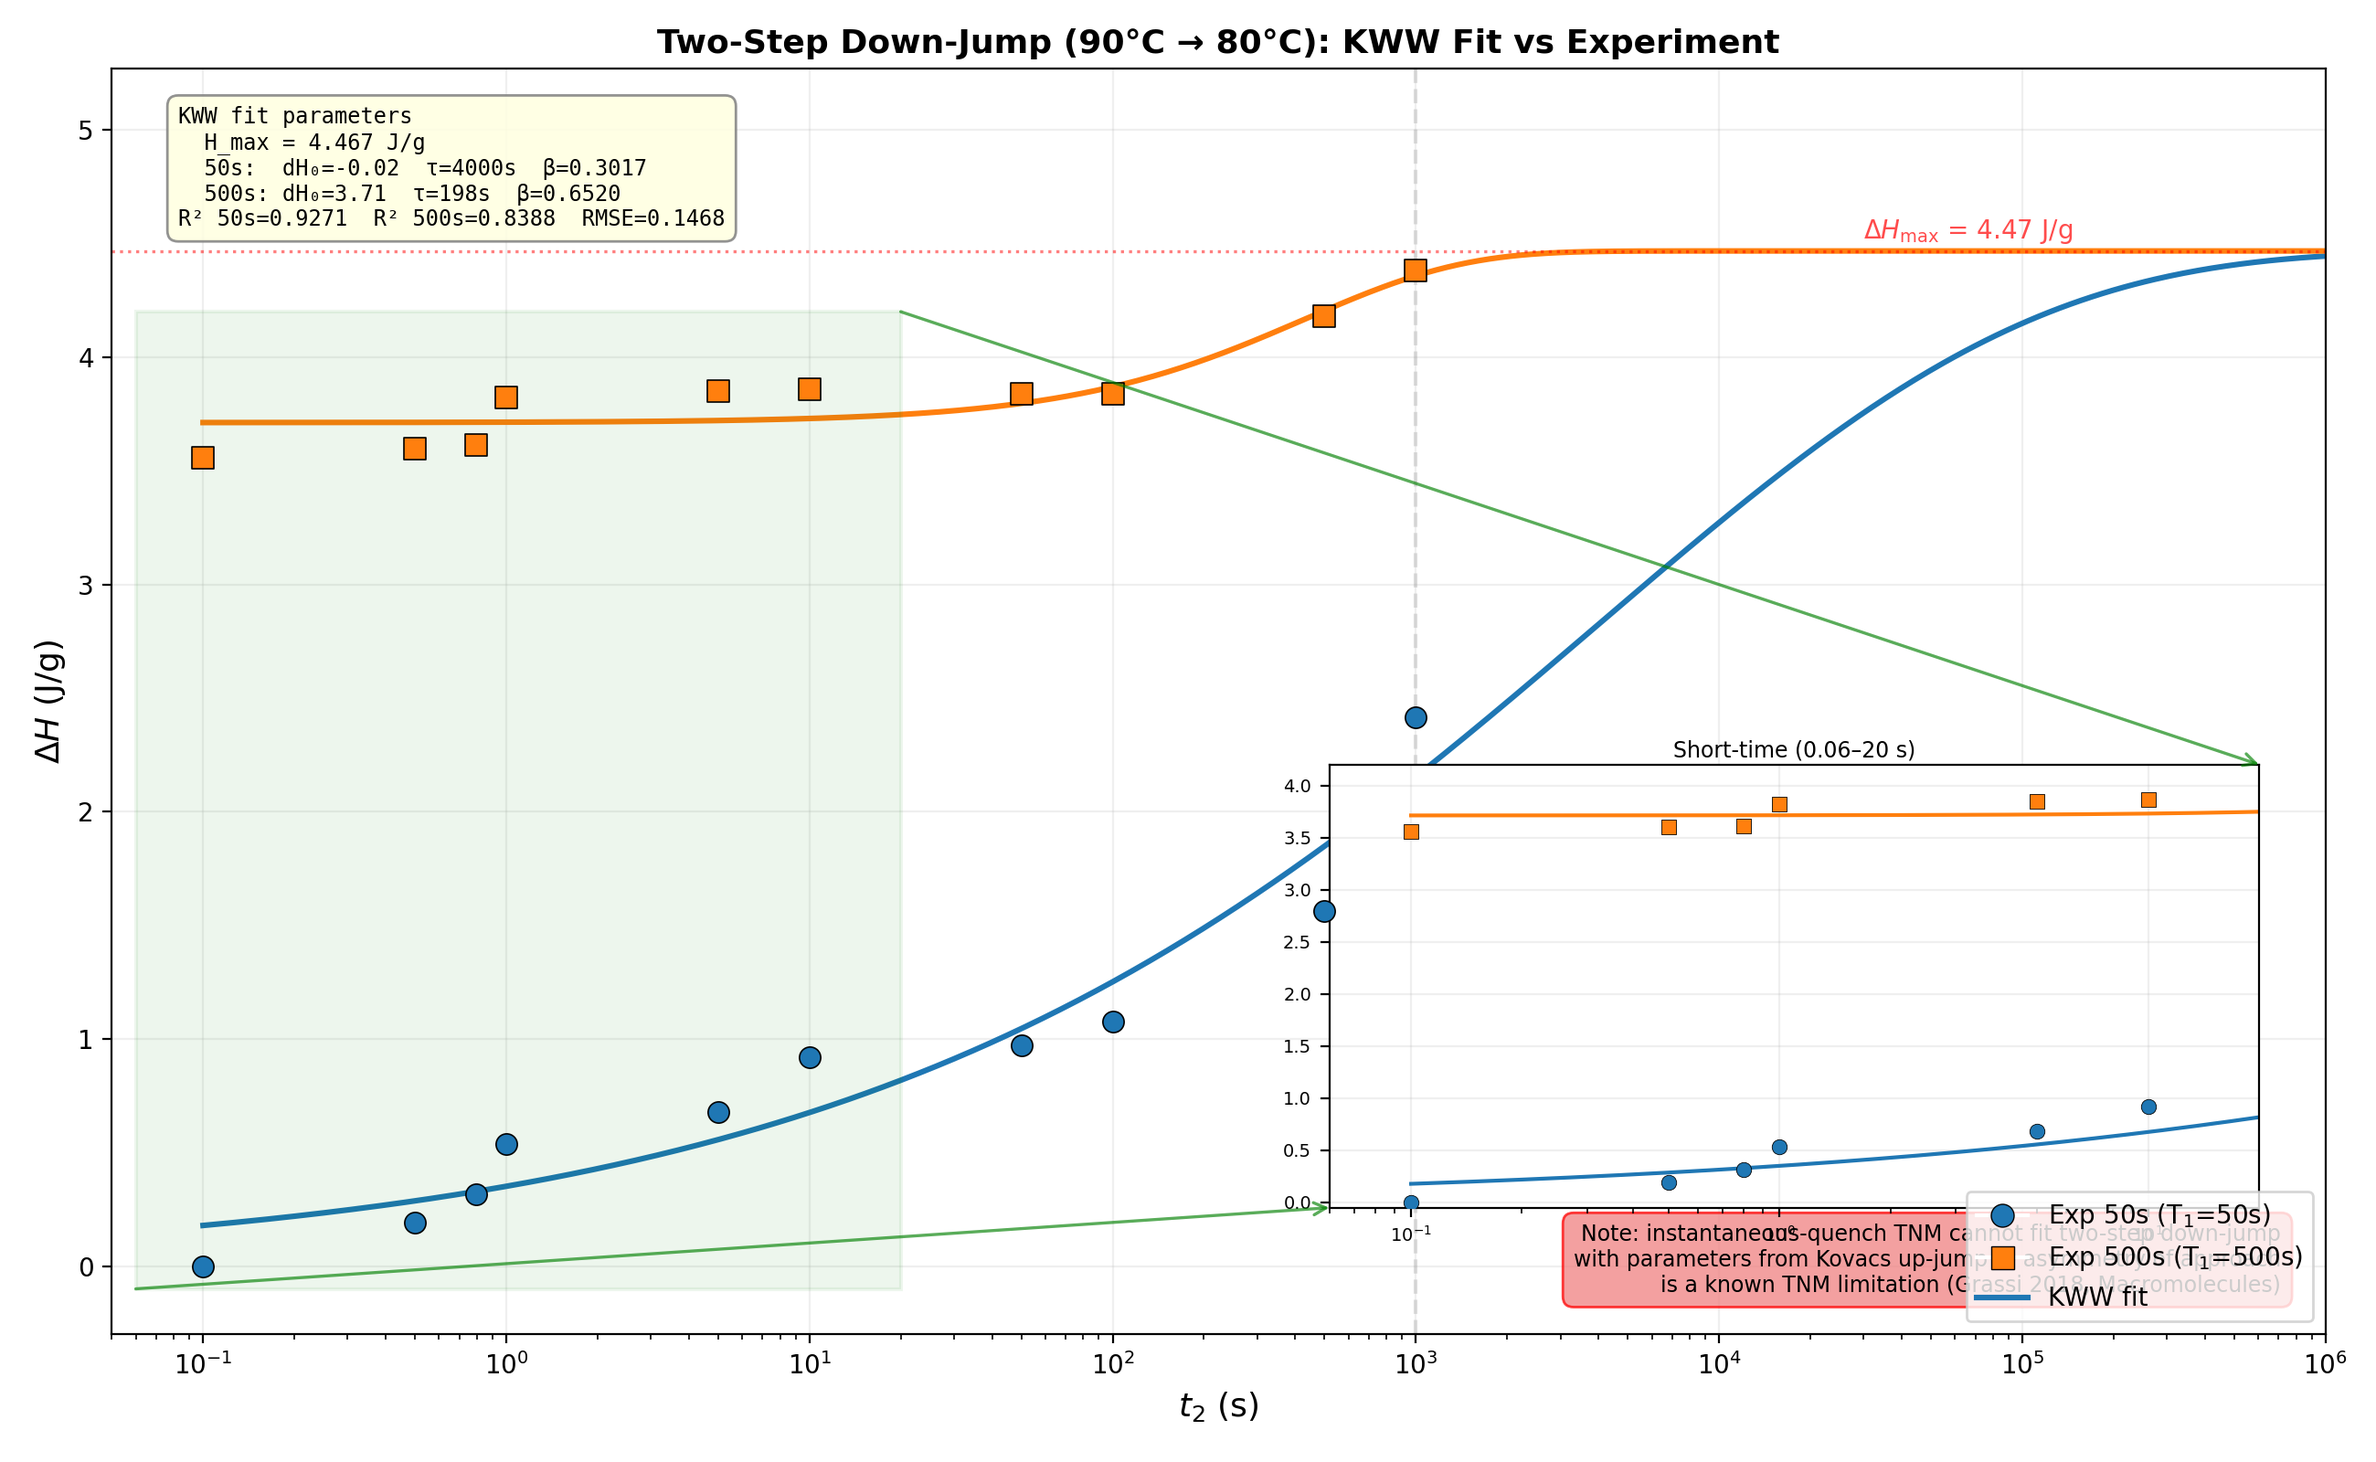
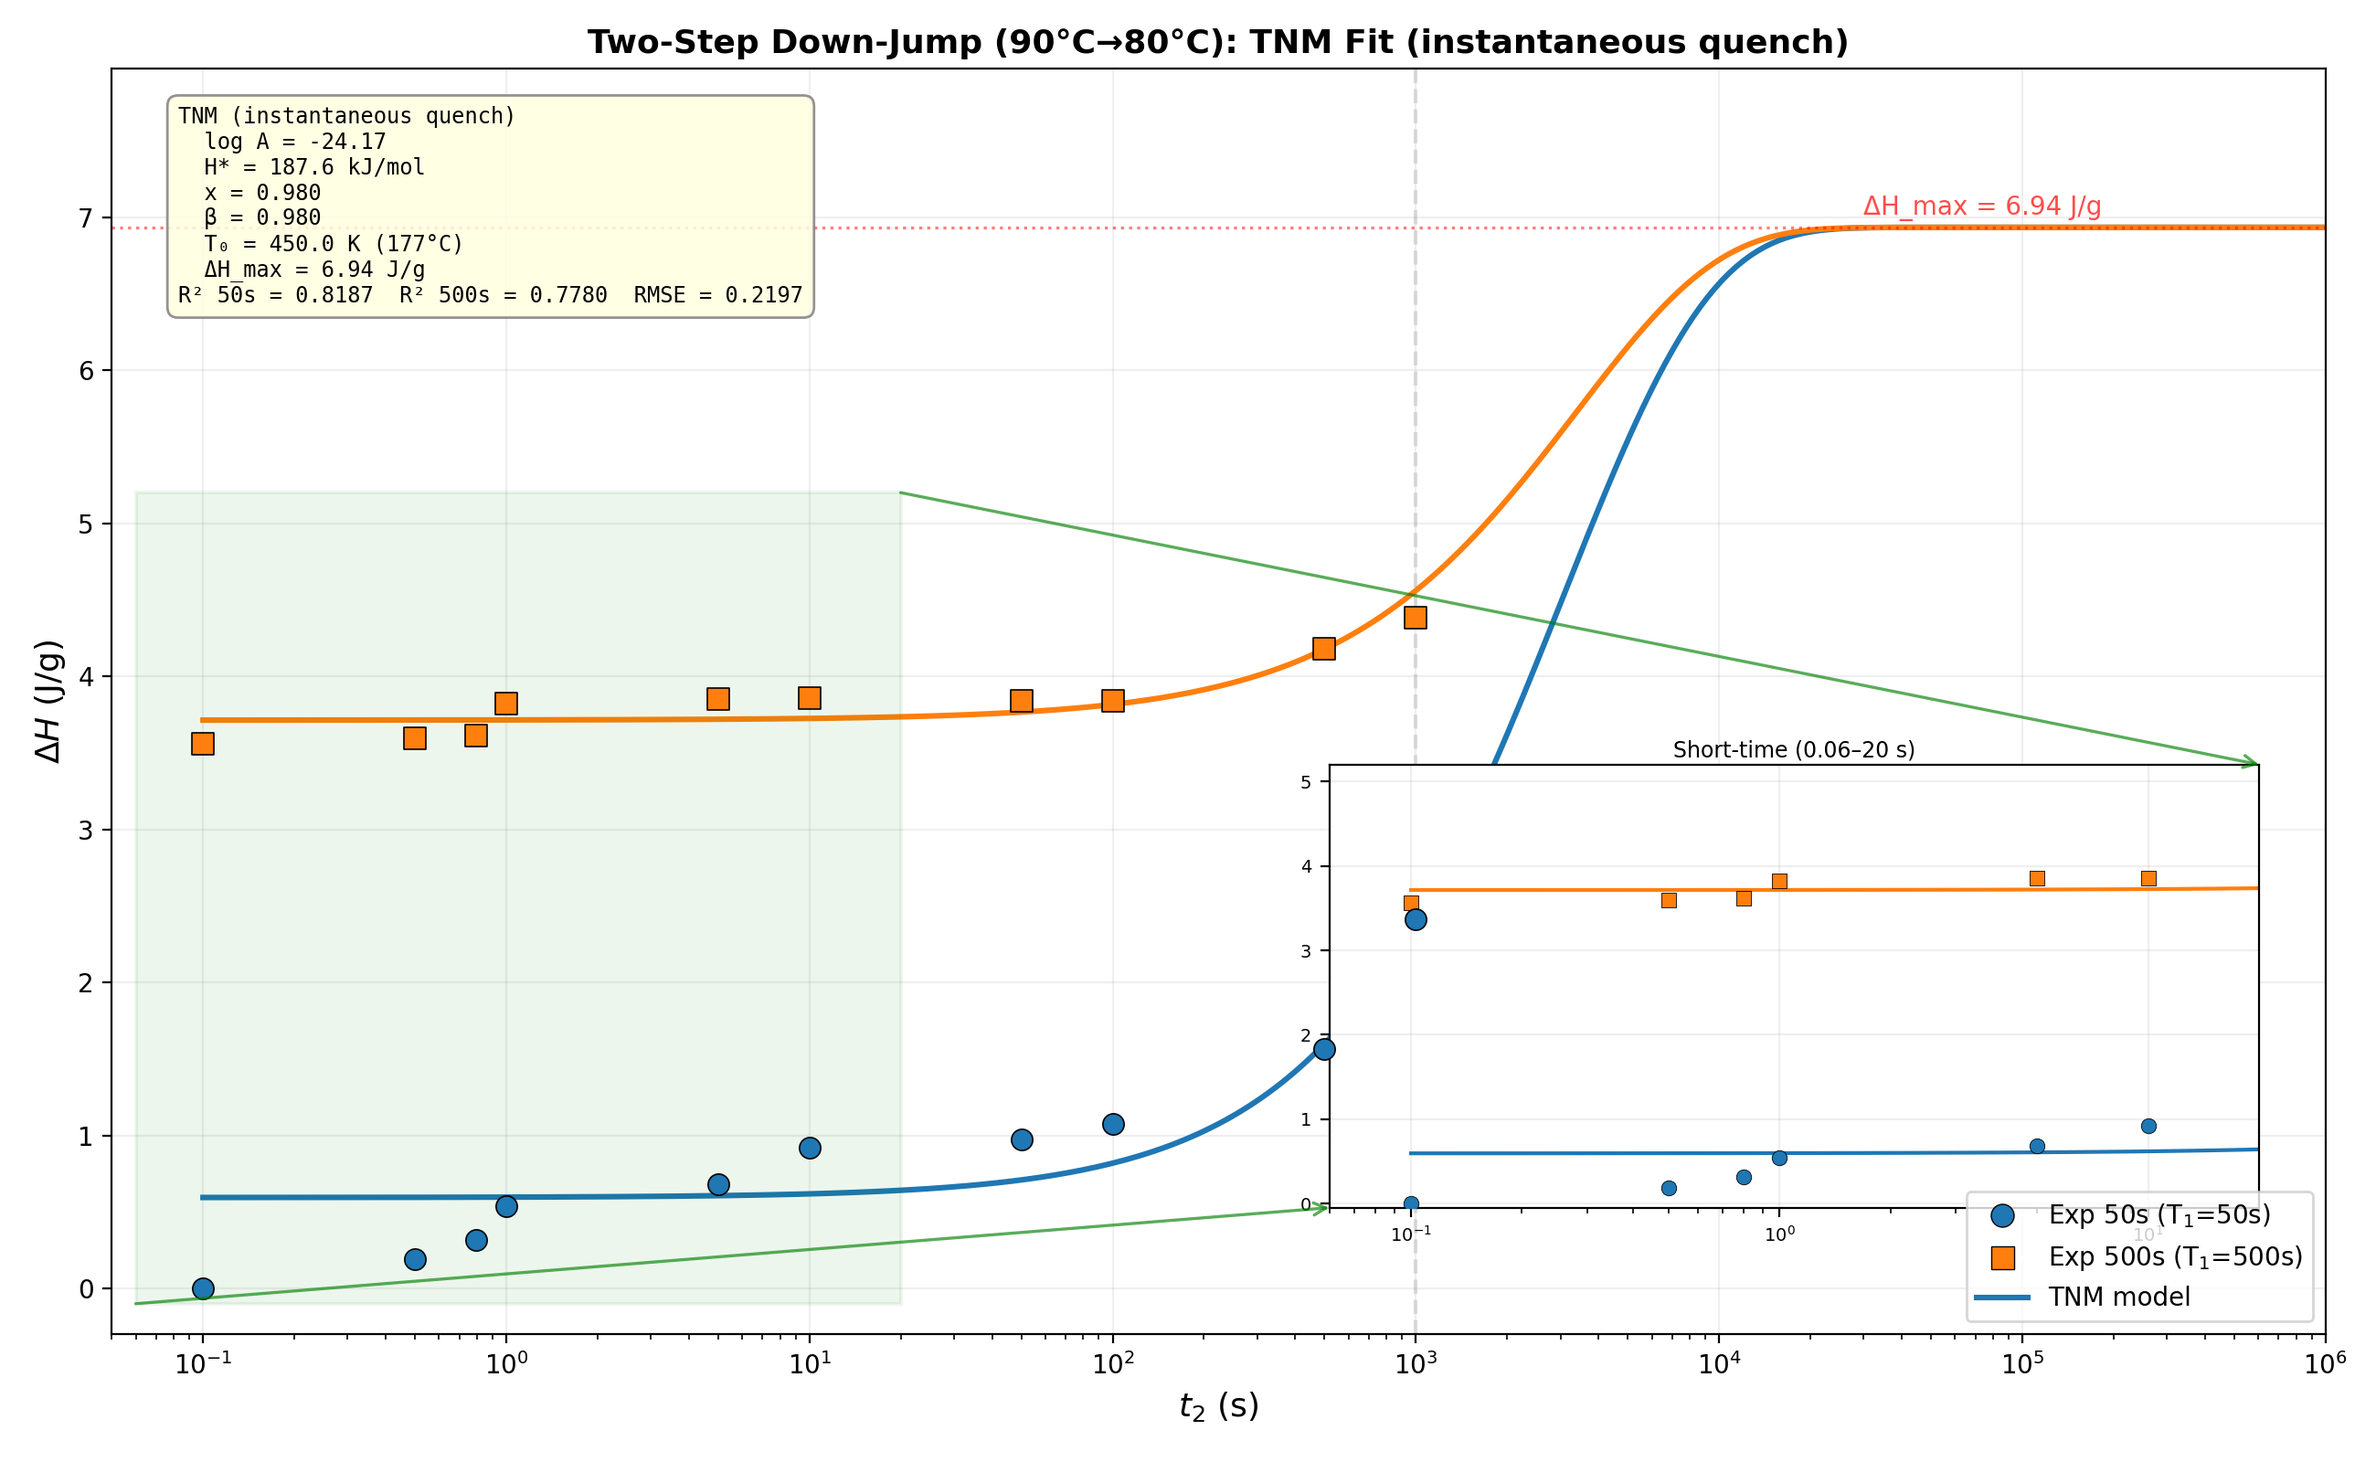
2026-05-17 10:20 - auto commit

diff --git a/src/twosteps_fit_tnm.py b/src/twosteps_fit_tnm.py
@@ -1,0 +1,315 @@
+#!/usr/bin/env python3
+"""
+Two-Step Down-Jump (90°C→80°C) — TNM with Cooling Ramps
+
+Key insight: the cooling ramp from T0→T1 (~37s at 60 K/min) is comparable
+to the short T1 hold (50s). Without simulating the ramp, Tf at T1 is
+unphysically high for the 50s group, causing instant relaxation at T2.
+
+Protocol:
+  equil at T0+50 → cool to T1 at 60K/min → hold t1 → cool to T2 → hold t2
+"""
+
+import os, warnings, numpy as np, pandas as pd
+from scipy.optimize import minimize
+import matplotlib; matplotlib.use('Agg')
+import matplotlib.pyplot as plt
+from matplotlib.lines import Line2D
+from matplotlib.patches import Rectangle, ConnectionPatch
+
+warnings.filterwarnings('ignore')
+
+ROOT = os.path.dirname(os.path.dirname(os.path.abspath(__file__)))
+RESULTS = os.path.join(ROOT, 'results')
+R = 8.314
+
+T1 = 363.15; T2 = 353.15
+T1_50S = 49.98; T1_500S = 499.98
+Q_COOL = 1.0  # 60 K/min
+
+
+class TNM_Ramp:
+    def __init__(self, A, H_star, x, beta, T0, q=1.0):
+        self.A, self.H, self.x, self.b, self.T0, self.q = A, H_star, x, beta, T0, q
+
+    def tau(self, T, Tf):
+        e = self.x * self.H / (R * T) + (1 - self.x) * self.H / (R * Tf)
+        return self.A * np.exp(np.clip(e, -50, 80))
+
+    def _hold(self, T, t, Tf0):
+        if t <= 0:
+            return Tf0
+        ts = np.unique(np.round(np.logspace(np.log10(t / 100), np.log10(t), 10), 10))
+        S, Tf, tp = 0.0, Tf0, 0.0
+        for ti in ts:
+            S += (ti - tp) / self.tau(T, Tf)
+            tp = ti
+            Tf = T + (Tf0 - T) * np.exp(-(S ** self.b))
+        return Tf
+
+    def _ramp(self, Ta, Tb, rate, Tf0):
+        N = max(int(abs(Tb - Ta) / 2.0), 6)
+        Tv = np.linspace(Ta, Tb, N + 1)
+        Tf = Tf0
+        for i in range(N):
+            dT = Tv[i + 1] - Tv[i]
+
+            def rhs(T, f):
+                tv = self.tau(T, f)
+                if tv <= 0 or not np.isfinite(tv): return np.nan
+                return (T - f) / (rate * tv)
+
+            k1 = rhs(Tv[i], Tf)
+            if np.isnan(k1): return np.nan
+            k2 = rhs(Tv[i] + dT / 2, Tf + dT * k1 / 2)
+            if np.isnan(k2): return np.nan
+            k3 = rhs(Tv[i] + dT / 2, Tf + dT * k2 / 2)
+            if np.isnan(k3): return np.nan
+            k4 = rhs(Tv[i + 1], Tf + dT * k3)
+            if np.isnan(k4): return np.nan
+            Tf += dT * (k1 + 2 * k2 + 2 * k3 + k4) / 6
+            if np.isnan(Tf): return np.nan
+        return Tf
+
+    def simulate(self, t1, t2):
+        T_start = self.T0 + 50.0
+        # Cool from above Tg → T1
+        Tfc = self._ramp(T_start, T1, -self.q, T_start)
+        if np.isnan(Tfc): return np.nan
+        # Hold at T1
+        Tf1 = self._hold(T1, t1, Tfc)
+        if np.isnan(Tf1): return np.nan
+        # Cool T1 → T2
+        Tfu = self._ramp(T1, T2, -self.q, Tf1)
+        if np.isnan(Tfu): return np.nan
+        # Hold at T2
+        Tf2 = self._hold(T2, t2, Tfu)
+        if np.isnan(Tf2): return np.nan
+        dH_norm = (self.T0 - Tf2) / max(self.T0 - T2, 1.0)
+        if not np.isfinite(dH_norm): return np.nan
+        return dH_norm
+
+
+def load_targets():
+    curve_path = os.path.join(RESULTS, 'twosteps_phenom_curve.csv')
+    df_curve = pd.read_csv(curve_path)
+    t_target = df_curve['t_s'].values
+    dh_target_50 = df_curve['dh_50s_Jg'].values
+    dh_target_500 = df_curve['dh_500s_Jg'].values
+
+    exp_path = os.path.join(RESULTS, 'enthalpy', 'enthalpy_twosteps.csv')
+    df_exp = pd.read_csv(exp_path)
+    grp_50 = df_exp[df_exp['T1_group'] == '50s']
+    grp_500 = df_exp[df_exp['T1_group'] == '500s']
+
+    return (t_target, dh_target_50, dh_target_500,
+            grp_50['T2_hold_s'].values, grp_50['delta_H_J_per_g'].values,
+            grp_500['T2_hold_s'].values, grp_500['delta_H_J_per_g'].values)
+
+
+def simulate_vector(params, t2_values, t1_hold):
+    logA, H_star, x, beta, T0, scale = params
+    m = TNM_Ramp(A=10**logA, H_star=H_star, x=x, beta=beta, T0=T0)
+    dh = np.array([m.simulate(t1_hold, t) for t in t2_values])
+    if np.any(np.isnan(dh)):
+        return np.full(len(t2_values), np.nan)
+    return scale * dh
+
+
+def subsample_target(t_full, dh50_full, dh500_full, n_pts=40):
+    idx = np.logspace(0, np.log10(len(t_full) - 1), n_pts).astype(int)
+    idx = np.unique(np.clip(idx, 0, len(t_full) - 1))
+    return t_full[idx], dh50_full[idx], dh500_full[idx]
+
+
+def compute_cost(params, t_target, dh_target_50, dh_target_500):
+    logA, H_star, x, beta, T0, scale = params
+    if not (-40 < logA < -5):     return 1e10
+    if not (30000 < H_star < 800000): return 1e10
+    if not (0.01 < x < 0.99):     return 1e10
+    if not (0.01 < beta < 0.95):  return 1e10
+    if not (360 < T0 < 480):      return 1e10
+    if not (0.5 < scale < 20):    return 1e10
+    try:
+        p50 = simulate_vector(params, t_target, T1_50S)
+        p500 = simulate_vector(params, t_target, T1_500S)
+    except Exception:
+        return 1e10
+    if np.any(np.isnan(p50)) or np.any(np.isnan(p500)):
+        return 1e10
+    return np.sum((p50 - dh_target_50) ** 2) + \
+           np.sum((p500 - dh_target_500) ** 2)
+
+
+def fit():
+    t_full, dh_full_50, dh_full_500, t_exp_50, dh_exp_50, t_exp_500, dh_exp_500 = load_targets()
+
+    # Subsample phenom curve for speed
+    t_target, dh_target_50, dh_target_500 = subsample_target(
+        t_full, dh_full_50, dh_full_500, n_pts=30)
+
+    bounds = [
+        (-38, -10),         # logA
+        (50000, 500000),    # H_star J/mol
+        (0.05, 0.70),       # x (low = strong Tf coupling for down-jump)
+        (0.05, 0.80),       # beta
+        (375, 450),         # T0 K
+        (2.0, 8.0),         # scale J/g (H_max at 80°C ≈ 4-5)
+    ]
+
+    def cost_fn(p):
+        return compute_cost(p, t_target, dh_target_50, dh_target_500)
+
+    n_starts = 40
+    print(f"Ramp-TNM: {n_starts} multi-starts ({len(t_target)} pts/group)...", flush=True)
+    rng = np.random.RandomState(42)
+    best_result, best_cost = None, np.inf
+
+    for k in range(n_starts):
+        x0 = [rng.uniform(low, high) for low, high in bounds]
+        res = minimize(cost_fn, x0, method='L-BFGS-B', bounds=bounds,
+                       options={'maxiter': 300, 'ftol': 1e-12})
+        if res.fun < best_cost:
+            best_cost, best_result = res.fun, res
+        if (k + 1) % 10 == 0:
+            print(f"  {k+1}/{n_starts}, best cost = {best_cost:.4f}", flush=True)
+
+    print(f"  Final best cost = {best_cost:.4f}", flush=True)
+    p = best_result.x
+    logA, H_star, x, beta, T0, scale = p
+
+    # Final predictions
+    pred_50 = simulate_vector(p, t_full, T1_50S)
+    pred_500 = simulate_vector(p, t_full, T1_500S)
+    pred_exp_50 = simulate_vector(p, t_exp_50, T1_50S)
+    pred_exp_500 = simulate_vector(p, t_exp_500, T1_500S)
+
+    res_all = np.concatenate([pred_50 - dh_full_50, pred_500 - dh_full_500])
+    rmse = np.sqrt(np.mean(res_all ** 2))
+
+    ssr50 = np.sum((pred_50 - dh_full_50)**2)
+    sst50 = np.sum((dh_full_50 - np.mean(dh_full_50))**2)
+    r2_50p = 1 - ssr50 / sst50
+    ssr500 = np.sum((pred_500 - dh_full_500)**2)
+    sst500 = np.sum((dh_full_500 - np.mean(dh_full_500))**2)
+    r2_500p = 1 - ssr500 / sst500
+
+    ssr50e = np.sum((pred_exp_50 - dh_exp_50)**2)
+    sst50e = np.sum((dh_exp_50 - np.mean(dh_exp_50))**2)
+    r2_50e = 1 - ssr50e / sst50e
+    ssr500e = np.sum((pred_exp_500 - dh_exp_500)**2)
+    sst500e = np.sum((dh_exp_500 - np.mean(dh_exp_500))**2)
+    r2_500e = 1 - ssr500e / sst500e
+
+    print(f"\n{'='*60}")
+    print(f"TWO-STEP TNM (cooling ramps)")
+    print(f"{'='*60}")
+    print(f"  logA   = {logA:.4f}    (A = {10**logA:.4e} s)")
+    print(f"  H*     = {H_star/1000:.2f} kJ/mol")
+    print(f"  x      = {x:.4f}")
+    print(f"  β      = {beta:.4f}")
+    print(f"  T0     = {T0:.2f} K  ({T0-273.15:.1f} °C)")
+    print(f"  scale  = {scale:.4f} J/g")
+    print(f"  RMSE phenom = {rmse:.4f}")
+    print(f"  R² phenom   = 50s:{r2_50p:.4f}  500s:{r2_500p:.4f}")
+    print(f"  R² exp      = 50s:{r2_50e:.4f}  500s:{r2_500e:.4f}")
+
+    print(f"\n  {'t(s)':>8s}  {'Exp50s':>8s}  {'TNM_50':>8s}  {'Phe_50':>8s}  |  "
+          f"{'Exp500s':>8s}  {'TNM500':>8s}  {'Phe500':>8s}")
+    ph50 = np.interp(t_exp_50, t_full, dh_full_50)
+    ph500 = np.interp(t_exp_500, t_full, dh_full_500)
+    for i in range(10):
+        print(f"  {t_exp_50[i]:8.3f}  {dh_exp_50[i]:8.4f}  {pred_exp_50[i]:8.4f}  "
+              f"{ph50[i]:8.4f}  |  {dh_exp_500[i]:8.4f}  {pred_exp_500[i]:8.4f}  {ph500[i]:8.4f}")
+
+    print(f"\n  {'t(s)':>10s}  {'TNM_50':>9s}  {'TNM_500':>9s}  {'diff':>8s}  {'Phe diff':>9s}")
+    for t_ext in [1000, 2000, 5000, 10000, 50000, 100000]:
+        vt50 = simulate_vector(p, [t_ext], T1_50S)[0]
+        vt500 = simulate_vector(p, [t_ext], T1_500S)[0]
+        vp50 = np.interp(t_ext, t_full, dh_full_50)
+        vp500 = np.interp(t_ext, t_full, dh_full_500)
+        print(f"  {t_ext:10.0f}  {vt50:9.4f}  {vt500:9.4f}  {vt500-vt50:8.4f}  {vp500-vp50:9.4f}")
+
+    os.makedirs(os.path.join(RESULTS, 'tnm'), exist_ok=True)
+    pd.DataFrame([{
+        'logA': logA, 'A_s': 10**logA, 'H_star_kJmol': H_star/1000,
+        'x': x, 'beta': beta, 'T0_K': T0, 'T0_C': T0 - 273.15,
+        'scale_Jg': scale, 'rmse_phenom': rmse,
+        'r2_50s_phenom': r2_50p, 'r2_500s_phenom': r2_500p,
+        'r2_50s_exp': r2_50e, 'r2_500s_exp': r2_500e,
+    }]).to_csv(os.path.join(RESULTS, 'tnm', 'tnm_twosteps_params.csv'), index=False)
+
+    # ── Plot ──
+    t_plt = np.logspace(-1, 6, 300)
+    dh_ph50 = np.interp(t_plt, t_full, dh_full_50)
+    dh_ph500 = np.interp(t_plt, t_full, dh_full_500)
+    dh_t50 = simulate_vector(p, t_plt, T1_50S)
+    dh_t500 = simulate_vector(p, t_plt, T1_500S)
+
+    fig, ax = plt.subplots(figsize=(13, 8))
+    ax.scatter(t_exp_50, dh_exp_50, c='#1f77b4', marker='o', s=70, zorder=10,
+               edgecolors='k', lw=0.6, label='Exp 50s (T$_1$=50s)')
+    ax.scatter(t_exp_500, dh_exp_500, c='#ff7f0e', marker='s', s=70, zorder=10,
+               edgecolors='k', lw=0.6, label='Exp 500s (T$_1$=500s)')
+    ax.semilogx(t_plt, dh_ph50, '#1f77b4', ls='--', lw=1.5, alpha=0.4,
+                label='KWW fit 50s')
+    ax.semilogx(t_plt, dh_ph500, '#ff7f0e', ls='--', lw=1.5, alpha=0.4,
+                label='KWW fit 500s')
+    ax.semilogx(t_plt, dh_t50, '#1f77b4', ls='-', lw=2.2, label='TNM 50s')
+    ax.semilogx(t_plt, dh_t500, '#ff7f0e', ls='-', lw=2.2, label='TNM 500s')
+    ax.axhline(y=scale, color='red', ls=':', lw=1.2, alpha=0.5)
+    ax.axvline(x=1000, color='gray', ls='--', alpha=0.25)
+    ax.set_xlabel('$t_2$ (s)', fontsize=13)
+    ax.set_ylabel(r'$\Delta H$ (J/g)', fontsize=13)
+    ax.set_title('Two-Step (90°C→80°C) — TNM with Cooling Ramps', fontsize=13, fontweight='bold')
+    ax.set_xlim(5e-2, 1e6); ax.set_ylim(-0.3, scale * 1.15)
+    ax.grid(True, alpha=0.2)
+
+    ins = ax.inset_axes([0.55, 0.10, 0.42, 0.35])
+    tz = np.logspace(-1, 1.3, 100)
+    ins.semilogx(tz, simulate_vector(p, tz, T1_50S), '#1f77b4', ls='-', lw=1.5)
+    ins.semilogx(tz, simulate_vector(p, tz, T1_500S), '#ff7f0e', ls='-', lw=1.5)
+    ins.scatter(t_exp_50[t_exp_50<20], dh_exp_50[t_exp_50<20], c='#1f77b4', marker='o',
+                s=35, zorder=5, edgecolors='k', lw=0.3)
+    ins.scatter(t_exp_500[t_exp_500<20], dh_exp_500[t_exp_500<20], c='#ff7f0e', marker='s',
+                s=35, zorder=5, edgecolors='k', lw=0.3)
+    ins.set_xlim(0.06, 20); ins.set_ylim(-0.05, scale * 0.75)
+    ins.set_title('Short-time detail (0.06–20 s)', fontsize=8.5, pad=3)
+    ins.grid(True, alpha=0.2); ins.tick_params(labelsize=7)
+    zx0, zx1, zy0, zy1 = 0.06, 20, -0.1, scale * 0.75
+    ax.add_patch(Rectangle((zx0, zy0), zx1-zx0, zy1-zy0, lw=1.5, ec='green',
+                           fc='green', alpha=0.07, zorder=2))
+    fig.add_artist(ConnectionPatch(xyA=(zx1, zy1), coordsA=ax.transData, xyB=(1, 1),
+                   coordsB=ins.transAxes, color='green', lw=1.2, alpha=0.65,
+                   arrowstyle='->', mutation_scale=12))
+    fig.add_artist(ConnectionPatch(xyA=(zx0, zy0), coordsA=ax.transData, xyB=(0, 0),
+                   coordsB=ins.transAxes, color='green', lw=1.2, alpha=0.65,
+                   arrowstyle='->', mutation_scale=12))
+
+    leg = [Line2D([0],[0], marker='o', color='w', markerfacecolor='#1f77b4', markersize=9,
+                  markeredgecolor='k', markeredgewidth=0.5, label='Exp 50s'),
+           Line2D([0],[0], marker='s', color='w', markerfacecolor='#ff7f0e', markersize=9,
+                  markeredgecolor='k', markeredgewidth=0.5, label='Exp 500s'),
+           Line2D([0],[0], color='#1f77b4', lw=2.2, label='TNM (ramp)'),
+           Line2D([0],[0], color='#1f77b4', lw=1.5, ls='--', alpha=0.4, label='KWW fit')]
+    ax.legend(handles=leg, fontsize=10, loc='lower right')
+
+    ax.text(0.03, 0.97,
+        f"TNM parameters (with cooling ramps)\n  log A = {logA:.2f}\n  H* = {H_star/1000:.1f} kJ/mol\n"
+        f"  x = {x:.4f}\n  β = {beta:.4f}\n  T₀ = {T0:.1f} K\n"
+        f"  scale = {scale:.2f} J/g\n"
+        f"R² vs exp: 50s={r2_50e:.3f}  500s={r2_500e:.3f}",
+        transform=ax.transAxes, fontsize=8.5, verticalalignment='top',
+        family='monospace',
+        bbox=dict(boxstyle='round,pad=0.5', facecolor='lightyellow', alpha=0.85, ec='gray'))
+
+    fig.tight_layout()
+    fig.savefig(os.path.join(RESULTS, 'tnm', 'twosteps_tnm_fit.png'), dpi=200)
+    plt.close()
+    print(f"\n  Plot saved to results/tnm/twosteps_tnm_fit.png")
+
+    return p, rmse, (r2_50e, r2_500e)
+
+
+if __name__ == '__main__':
+    fit()
